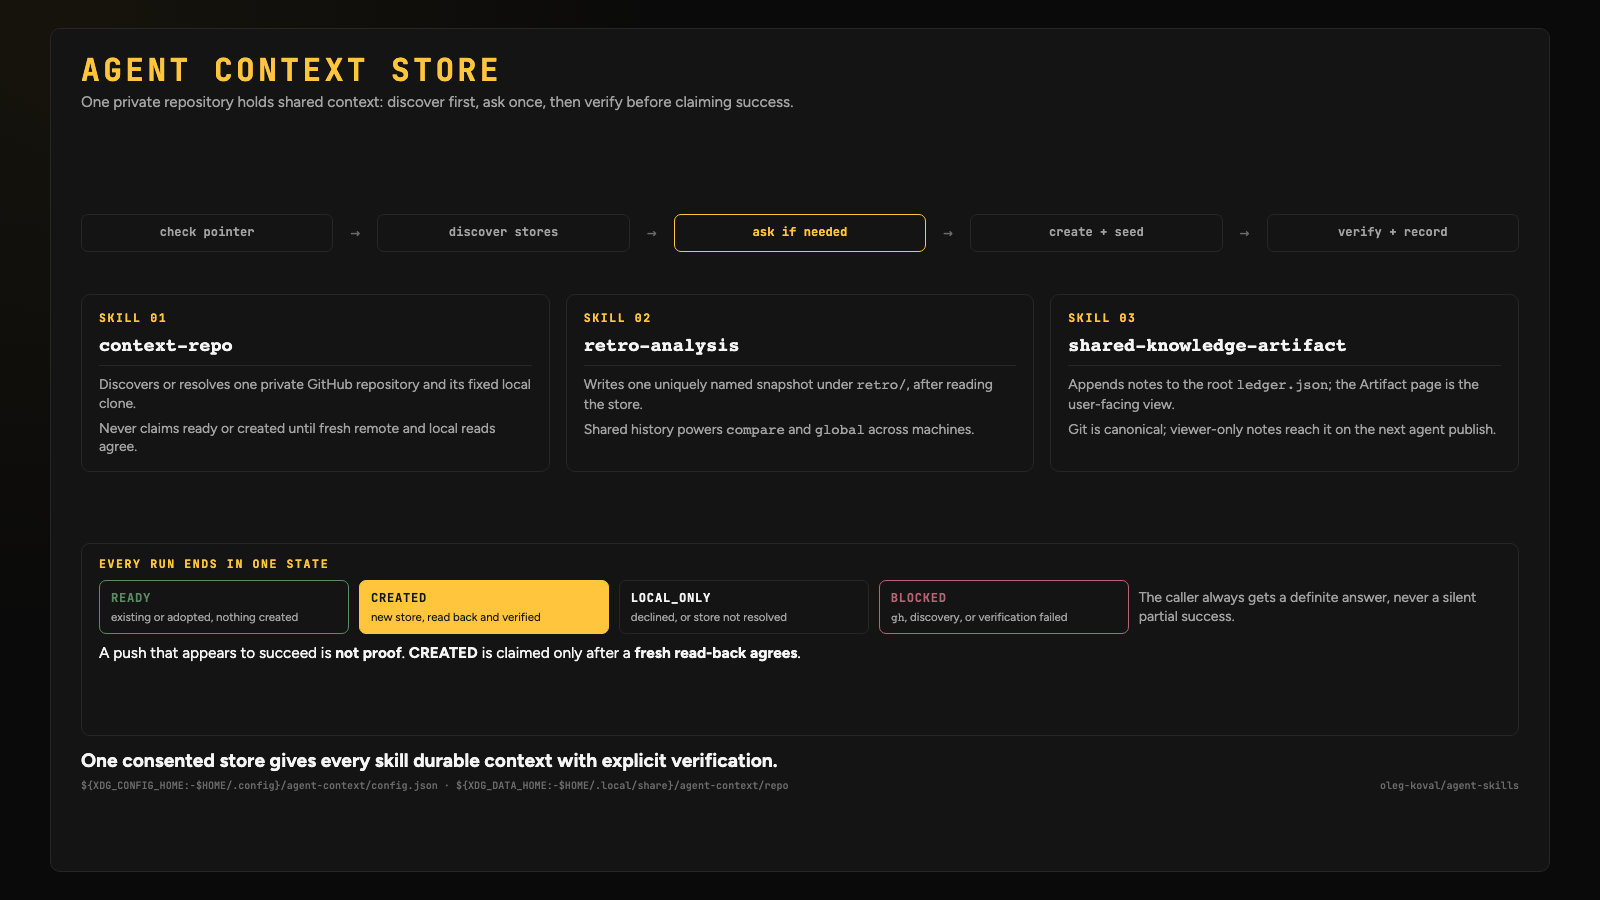
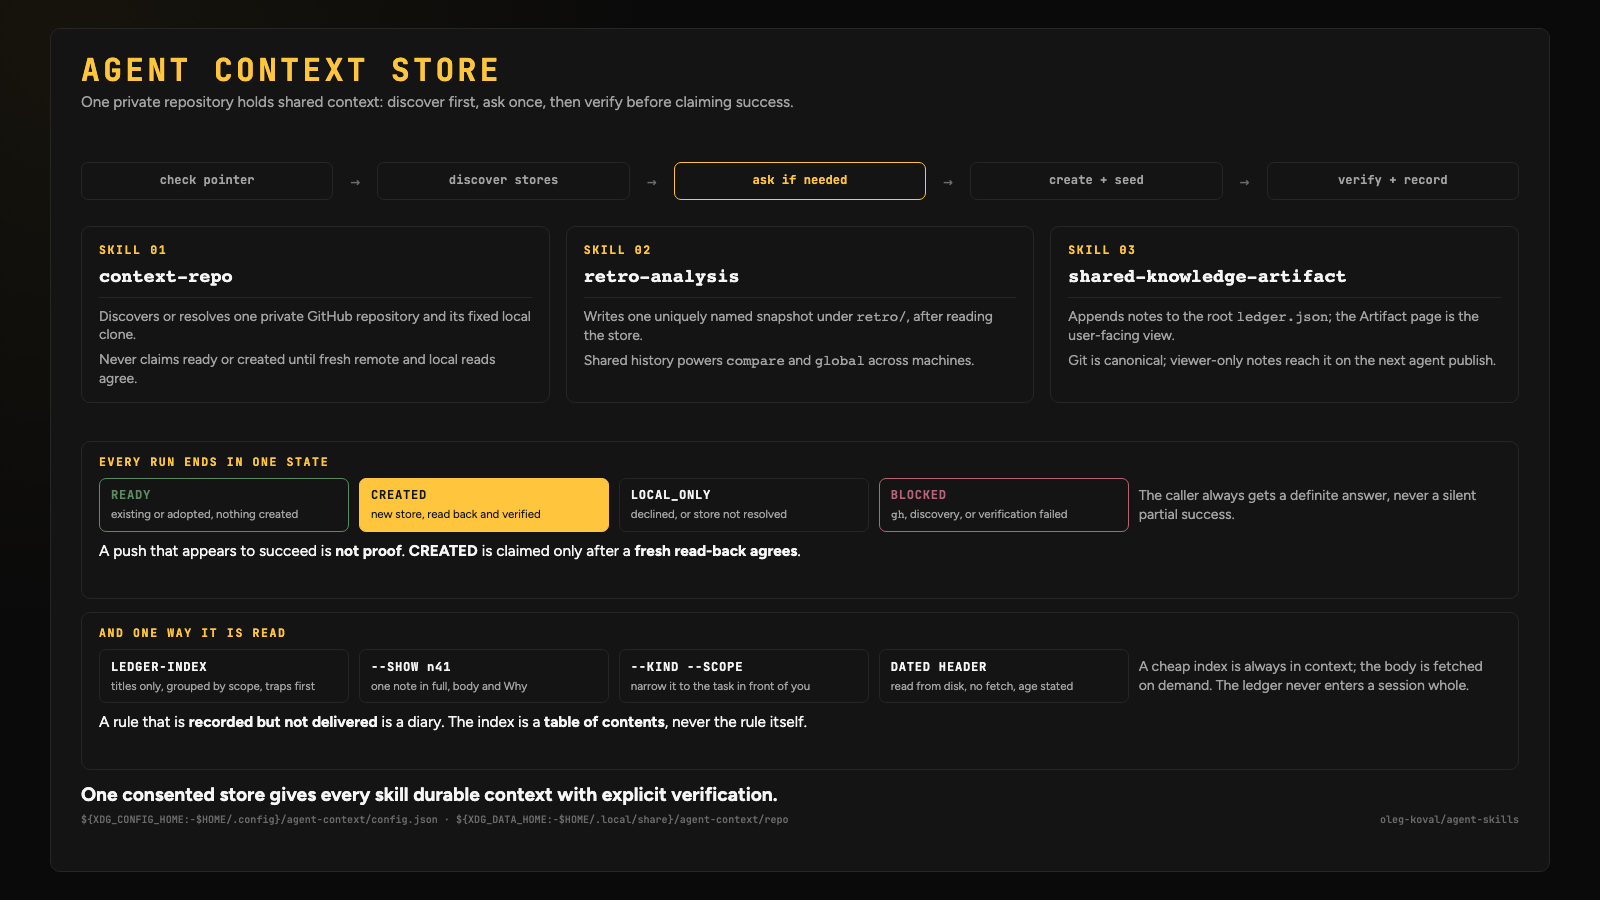
docs(context-store): document how the store is read (#78)
* docs(context-repo): document resolution flow

* docs: include rendered context store card

* docs(context-store): document how the store is read

The document covered discover, write and verify. Reading it had no section at
all, and that was the half that was broken: the write side has a lease, a
validator and CI, while the read side was one sentence in AGENTS.md. Two notes
written on 2026-08-25 described failures that both recurred by 2026-08-31.

Adds a Reading the store section covering ledger-index, the index-plus-fetch
shape and its token cost, host-neutral wiring, why an explicitly named ledger
that is missing is an error rather than a fallback, and why the index states its
own horizon instead of implying freshness it did not check.

The card gains a matching band. It reuses the existing strip classes, so no new
CSS, and fills the existing four-plus-one grid exactly.

* docs(context-store): regenerate the card and extend its alt text

The card HTML gained a fifth band in the previous commit but the rendered PNG
that README embeds was not rebuilt, so the published image contradicted its own
source and the alt text named three of the four bands.

Regenerated at the same 1600x900 as before. The frame's min-height is a 16:9
floor of 843.75px and the previous layout had slack, so the sixth grid child
fits without growing the card: scrollHeight 842 against height 844, no overflow.

diff --git a/docs/assets/context-store-card.html b/docs/assets/context-store-card.html
@@ -367,6 +367,30 @@
     <p class="proof-line">A push that appears to succeed is <strong>not proof</strong>. <strong>CREATED</strong> is claimed only after a <strong>fresh read-back agrees</strong>.</p>
   </section>
 
+  <section class="state-strip" aria-labelledby="read-title">
+    <p class="strip-label" id="read-title">AND ONE WAY IT IS READ</p>
+    <div class="state-row">
+      <div class="state-item">
+        <p class="state-name">LEDGER-INDEX</p>
+        <p class="state-detail">titles only, grouped by scope, traps first</p>
+      </div>
+      <div class="state-item">
+        <p class="state-name">--SHOW n41</p>
+        <p class="state-detail">one note in full, body and Why</p>
+      </div>
+      <div class="state-item">
+        <p class="state-name">--KIND --SCOPE</p>
+        <p class="state-detail">narrow it to the task in front of you</p>
+      </div>
+      <div class="state-item">
+        <p class="state-name">DATED HEADER</p>
+        <p class="state-detail">read from disk, no fetch, age stated</p>
+      </div>
+      <p class="state-copy">A cheap index is always in context; the body is fetched on demand. The ledger never enters a session whole.</p>
+    </div>
+    <p class="proof-line">A rule that is <strong>recorded but not delivered</strong> is a diary. The index is a <strong>table of contents</strong>, never the rule itself.</p>
+  </section>
+
   <footer class="closing-band">
     <p class="closing-line">One consented store gives every skill durable context with explicit verification.</p>
     <div class="metadata-line">

diff --git a/docs/agent-context-store.md b/docs/agent-context-store.md
@@ -229,6 +229,52 @@ into it:
   where they do not conflict with this contract. It cannot override lease acquisition,
   validation, append-only writes, secret handling, or the private-repository requirement.
 
+## Reading the store
+
+Everything above is the write side, and it is enforced: a lease, a validator, and CI
+that runs the validator again on push. The read side had none of that. For a while the
+only instruction to read the ledger was one sentence in `AGENTS.md`, which is a rule an
+agent has to remember rather than a mechanism. It did not hold. Two notes written on
+2026-08-25 described failures that both recurred by 2026-08-31: one about stating the
+denominator behind a percentage, one about cache reads dominating a long-session bill.
+Recording a lesson and delivering it are different jobs.
+
+The store therefore ships a reader, `recipes/tools/ledger-index`, built on the shape
+that already works for per-user memory: a cheap index is always in context, and the
+body is fetched on demand. The index is titles only, roughly 1.9k tokens for 84 notes,
+grouped by scope with traps first. The ledger itself is around 50KB and does not belong
+in every session.
+
+```text
+ledger-index                          the index, grouped by scope
+ledger-index --show n41               one note in full, body and Why
+ledger-index --kind trap --scope shell
+ledger-index --count
+```
+
+It resolves the ledger through the same pointer `context-repo` writes, so a machine
+that has resolved the store once needs no further configuration. An explicitly named
+`--ledger` or `LEDGER_PATH` that does not exist is an error rather than a fallback:
+silently reading a different ledger than the one you asked for is the failure this
+whole document exists to prevent.
+
+Hosts wire it in their own way and neither owns the format. A Claude `SessionStart`
+hook injects the index once per session; a Codex prompt shells out to the same binary.
+The reference hook is `recipes/hooks/ledger-index.sh`, which prints nothing and exits 0
+when the store is absent, so it can never fail a session.
+
+The index states its own horizon. It reads from disk and never fetches, because a
+session start is the wrong place for a network call, so the header carries the commit,
+its age in days, and a plain statement that a newer commit may exist upstream. Past
+three days it prints the `pull --rebase` command for that clone. Age of `HEAD` conflates
+a quiet repository with a checkout that is behind, and only a fetch separates them, so
+the limit is stated rather than implied.
+
+One consequence is worth making explicit. The fixed clone path is not a convention, it
+is the point: a second working copy of the store is the copy nothing keeps current, and
+it will be the one an index or an `AGENTS.md` symlink ends up reading. Resolve through
+the pointer and keep one checkout.
+
 ## What is never committed
 
 Raw session content, tokens, private prompts, and customer data never go into the

diff --git a/README.md b/README.md
@@ -342,7 +342,7 @@ When adding or changing a skill:
 
 ### Shared context store
 
-![How the agent context store works: the five resolution steps, the three skills that use the store, and the four states every run ends in](docs/assets/context-store-card.png)
+![How the agent context store works: the five resolution steps, the three skills that use the store, the four states every run ends in, and how the store is read](docs/assets/context-store-card.png)
 
 `retro-analysis` and `shared-knowledge-artifact` share one private GitHub repository,
 resolved through the `context-repo` skill the first time either one runs. It finds a
